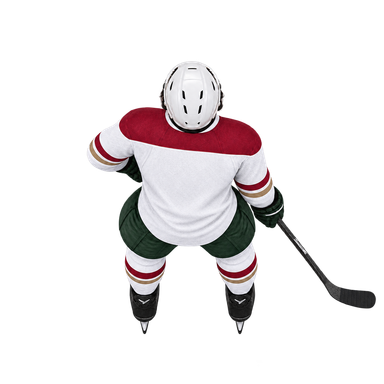
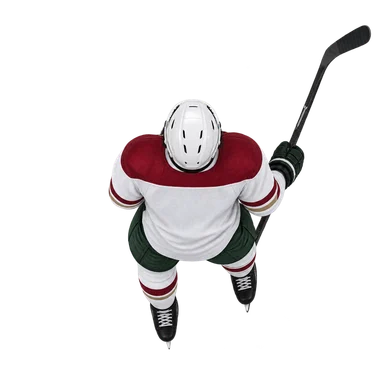
udate

Changed region(s): [[0.2188, 0.0625, 0.9688, 0.9062], [0.8125, 0.6875, 1.0, 0.8125]]

diff --git a/app/leaderboard/page.tsx b/app/leaderboard/page.tsx
@@ -6,19 +6,20 @@ import {Brand} from '@/components/Brand';
 import {api} from '@/lib/client';
 import {formatTime} from '@/lib/game';
 import type {Board} from '@/lib/types';
-export default function Leaderboard(){const [board,setBoard]=useState<Board|null>(null),[qr,setQr]=useState(''),[url,setUrl]=useState(''),[offline,setOffline]=useState(false),[now,setNow]=useState(Date.now()),[offset,setOffset]=useState(0),[locked,setLocked]=useState(false),[password,setPassword]=useState(''),[loginError,setLoginError]=useState(''),[updated,setUpdated]=useState(false);const lastSignature=useRef<string|null>(null);const toastTimer=useRef<ReturnType<typeof setTimeout>|null>(null);
+export default function Leaderboard(){const [board,setBoard]=useState<Board|null>(null),[qr,setQr]=useState(''),[url,setUrl]=useState(''),[offline,setOffline]=useState(false),[now,setNow]=useState(Date.now()),[offset,setOffset]=useState(0),[locked,setLocked]=useState(false),[password,setPassword]=useState(''),[loginError,setLoginError]=useState(''),[updated,setUpdated]=useState(false),[view,setView]=useState<'leaderboard'|'rules'|'info'>(()=>{if(typeof window==='undefined')return 'leaderboard';const v=new URLSearchParams(location.search).get('view');return v==='rules'||v==='info'?v:'leaderboard'});const lastSignature=useRef<string|null>(null);const toastTimer=useRef<ReturnType<typeof setTimeout>|null>(null);
  useEffect(()=>{let gone=false;const target=location.origin;setUrl(target.replace(/^https?:\/\//,''));QRCode.toDataURL(target,{width:500,margin:4,errorCorrectionLevel:'M',color:{dark:'#102f21',light:'#ffffff'}}).then(setQr);
   const update=async()=>{try{const b=await api<Board>('screen-board');if(!gone){const sig=JSON.stringify([b.round?.id,b.round?.status,b.entries]);if(lastSignature.current!==null&&sig!==lastSignature.current){setUpdated(true);if(toastTimer.current)clearTimeout(toastTimer.current);toastTimer.current=setTimeout(()=>setUpdated(false),1600);}lastSignature.current=sig;setBoard(b);setLocked(false);setOffline(false);setOffset(new Date(b.serverTime).getTime()-Date.now());}}catch(e){if(!gone){const message=(e as Error).message;if(message.includes('adgangskode'))setLocked(true);else {setOffline(true);setLoginError(message);}}}};update();const poll=setInterval(update,2500),clock=setInterval(()=>setNow(Date.now()),1000);return()=>{gone=true;clearInterval(poll);clearInterval(clock);if(toastTimer.current)clearTimeout(toastTimer.current);};},[]);
  if(locked)return <div className="screen-lock"><Brand/><form onSubmit={async e=>{e.preventDefault();setLoginError('');try{await api('leaderboard/login',{password});setPassword('');setLocked(false);}catch(err){setLoginError((err as Error).message);}}}><LockKeyhole size={38}/><p className="eyebrow">STORSKÆRM / PRIVAT VISNING</p><h1>INDTAST KODEN</h1><p>Leaderboardet er kun til visning på arenaens storskærm.</p><input type="password" value={password} onChange={e=>setPassword(e.target.value)} autoComplete="current-password" placeholder="Adgangskode"/><button className="primary">Åbn leaderboard</button>{loginError&&<div className="notice">{loginError}</div>}</form></div>;
  const round=board?.round;const remaining=round?Math.max(0,Math.ceil((new Date(round.ends_at).getTime()-now-offset)/1000)):0;const final=round?.status==='final';const closing=!!round&&(!remaining||round.status==='closing')&&!final;
+ const lastTen=!!round&&!final&&!closing&&remaining<=10;
  const label=final?'KAMPENS VINDERE':closing?'SIDSTE FORSØG AFSLUTTES':round?'LIVE LEADERBOARD':'KLAR TIL KAMPENS PAUSE';
- return <div className="arena-page"><header><Brand/><div className="arena-status">{offline?<><WifiOff size={17}/> FORBINDELSE AFBRUDT</>:<><span className="live-dot"/>{label}</>}<button className="icon-button" aria-label="Vis i fuld skærm" onClick={()=>document.fullscreenElement?document.exitFullscreen():document.documentElement.requestFullscreen().catch(()=>{})}><Maximize size={19}/></button></div></header>{updated&&<div className="board-toast" role="status">LEADERBOARD OPDATERET</div>}
- <main className="arena-grid"><section className="ranking"><div className="ranking-title"><div><p className="eyebrow">ODENSE BULLDOGS / PAUSESPILLET</p><h1>{final?'DE HOLDT':'HVEM HOLDER'}<br/><em>PUCKEN I LIVE?</em></h1></div><Trophy className="outline-trophy" size={68}/></div>
+ return <div className={`arena-page screen-${view}`}><header><Brand/><div className="arena-status">{offline?<><WifiOff size={17}/> FORBINDELSE AFBRUDT</>:<><span className="live-dot"/>{label}</>}<button className="icon-button" aria-label="Vis i fuld skærm" onClick={()=>document.fullscreenElement?document.exitFullscreen():document.documentElement.requestFullscreen().catch(()=>{})}><Maximize size={19}/></button></div></header>{updated&&<div className="board-toast" role="status">LEADERBOARD OPDATERET</div>}{lastTen&&<div className="final-countdown" role="status"><span>SIDSTE SEKUNDER</span><strong>{remaining}</strong></div>}
+ {view!=='leaderboard'?<main className="arena-grid alternate-screen"><section className="alternate-copy"><p className="eyebrow">ODENSE BULLDOGS / PAUSESPILLET</p><h1>{view==='rules'?'SÅDAN SPILLER DU':'KAMPENS INFO'}</h1>{view==='rules'?<><p>Scan QR-koden og vælg et kaldenavn.</p><p>Tryk på en hvid Bulldogs-spiller foran dig for at aflevere.</p><p>Undgå de mørke modspillere og aflever, før du bliver indhentet.</p><p>Du må gerne spille til banden, når den lyser orange.</p></>:<><p>Bedste overlevelsestid vinder.</p><p>Top 5 får præmien, som står på storskærmen.</p><p>Vis dit digitale præmiebevis til personalet efter finalen.</p></>}</section><aside className="join-panel"><h2>SCAN &<br/>SPIL MED.</h2><div className="qr-card">{qr&&<img src={qr} alt="Scan QR-koden for at åbne spillet"/>}</div><p className="scan-url">{url}</p></aside></main>:<main className="arena-grid"><section className="ranking"><div className="ranking-title"><div><p className="eyebrow">ODENSE BULLDOGS / PAUSESPILLET</p><h1>{final?'DE HOLDT':'HVEM HOLDER'}<br/><em>PUCKEN I LIVE?</em></h1></div><Trophy className="outline-trophy" size={68}/></div>
  <div className="ranking-label"><span>PLACERING / SPILLER</span><span>OVERLEVELSE</span></div>
  <div className="top-five">{Array.from({length:5},(_,i)=>{const e=board?.entries[i];return <div className={`rank-row ${i===0?'first':''} ${e?'':'empty'}`} key={i}><span className="rank-number">{String(i+1).padStart(2,'0')}</span><div className="rank-name">{e?.nickname|| (i===0?'Din plads venter':'—')}{i===0&&e&&<small>{final?'KAMPENS VINDER':'TIDEN AT SLÅ'}</small>}</div><strong>{e?formatTime(e.score_ms):'—'}<small> SEK</small></strong>{i===0&&<Trophy size={22}/>}</div>;})}</div>
  {!final&&<div className="next-five">{Array.from({length:5},(_,i)=>{const e=board?.entries[i+5];return <div key={i}><span>{String(i+6).padStart(2,'0')}</span><p>{e?.nickname||'—'}<strong>{e?`${formatTime(e.score_ms)} sek.`:'Plads til dig'}</strong></p></div>;})}</div>}
  <div className="ranking-foot"><span><strong>{(board?.participants||0).toLocaleString('da-DK')}</strong> DELTAGERE MED RESULTAT</span><span>{offline?'Viser senest hentede resultater':'BEDSTE FORSØG TÆLLER'}</span></div>
- </section><aside className="join-panel"><div className="join-top"><span>{final?'TAK FOR KAMPEN':closing?'SNART FINDER VI VINDERNE':'DIN TELEFON. DIN IS.'}</span><ArrowUpRight size={30}/></div><h2>{final?'SE DIT':'SCAN &'}<br/>{final?'PRÆMIEBEVIS':'SPIL MED.'}</h2><div className="qr-card">{qr?<img src={qr} alt="Scan QR-koden for at åbne spillet"/>:<div className="qr-loading">Henter QR-kode…</div>}</div><p className="scan-url">{url}</p><p className="scan-help">{final?'Åbn spillet på den telefon, du spillede med. Vis dit præmiebevis til personalet.':'Scan koden med kameraet. Tryk på dine medspillere. Overlev længst muligt.'}</p><div className="arena-countdown"><span>{final?'KONKURRENCEN ER AFSLUTTET':closing?'VI AFVENTER DE SIDSTE TIDER':round?'NYE FORSØG LUKKER OM':'TRÆNINGEN ER ÅBEN'}</span>{round&&!final&&!closing?<strong>{Math.floor(remaining/60).toString().padStart(2,'0')}<i>:</i>{(remaining%60).toString().padStart(2,'0')}</strong>:<strong className="countdown-word">{final?'TAK, ODENSE!':closing?'BLIV HÆNGENDE':'PRØV SPILLET'}</strong>}</div></aside></main>
- <div className="arena-bottom"><div><Trophy size={22}/><strong>{round?.prize||'TOP 5 VINDER'}</strong></div><span>ÉT HOLD. ÉN BY. <b>ODENSE.</b></span></div>
+ </section><aside className="join-panel"><div className="join-top"><span>{final?'TAK FOR KAMPEN':closing?'SNART FINDER VI VINDERNE':'DIN TELEFON. DIN IS.'}</span><ArrowUpRight size={30}/></div><h2>{final?'SE DIT':'SCAN &'}<br/>{final?'PRÆMIEBEVIS':'SPIL MED.'}</h2><div className="qr-card">{qr?<img src={qr} alt="Scan QR-koden for at åbne spillet"/>:<div className="qr-loading">Henter QR-kode…</div>}</div><p className="scan-url">{url}</p><p className="scan-help">{final?'Åbn spillet på den telefon, du spillede med. Vis dit præmiebevis til personalet.':'Scan koden med kameraet. Tryk på dine medspillere. Overlev længst muligt.'}</p><div className="arena-countdown"><span>{final?'KONKURRENCEN ER AFSLUTTET':closing?'VI AFVENTER DE SIDSTE TIDER':round?'NYE FORSØG LUKKER OM':'TRÆNINGEN ER ÅBEN'}</span>{round&&!final&&!closing?<strong>{Math.floor(remaining/60).toString().padStart(2,'0')}<i>:</i>{(remaining%60).toString().padStart(2,'0')}</strong>:<strong className="countdown-word">{final?'TAK, ODENSE!':closing?'BLIV HÆNGENDE':'PRØV SPILLET'}</strong>}</div></aside></main>}
+ <div className="arena-bottom"><div><Trophy size={22}/><strong>{round?.prize||'TOP 5 VINDER'}</strong></div><span>{final?'1. Find dit navn · 2. Åbn spillet på din telefon · 3. Vis præmiebeviset til personalet':'ÉT HOLD. ÉN BY. '}<b>{!final&&'ODENSE.'}</b></span></div>
  </div>;
 }

diff --git a/components/GameCanvas.tsx b/components/GameCanvas.tsx
@@ -1,6 +1,6 @@
 'use client';
 import {useEffect,useRef,useState} from 'react';
-import {act,advance,createGame,formatTime,HEIGHT,position,WIDTH,type Game,type Stage,type Point} from '@/lib/game';
+import {act,advance,createGame,formatTime,HEIGHT,position,WIDTH,reasons,type Game,type Stage,type Point} from '@/lib/game';
 import type {OpponentKit} from '@/lib/team';
 export type Session={id:string;seed:number;limit:number;practice:boolean;opponent?:OpponentKit};
 export default function GameCanvas({session,onEnd,onReady,opponent}:{session:Session|null;onEnd:(g:Game)=>void;onReady?:(ready:boolean)=>void;opponent?:OpponentKit}){
@@ -52,9 +52,10 @@ export default function GameCanvas({session,onEnd,onReady,opponent}:{session:Ses
       if(!f.intercepted) { const rx=f.to.x,ry=f.to.y-camera.current+490;ctx.strokeStyle=`rgba(228,131,49,${.12+.25*u})`;ctx.lineWidth=3;ctx.beginPath();ctx.arc(rx,ry,34+5*u,0,Math.PI*2);ctx.stroke(); }
       const a=f.via?(raw<.5?f.from:f.via):f.from;const b=f.via?(raw<.5?f.via:f.to):f.to;const leg=f.via?(raw<.5?raw*2:(raw-.5)*2):raw;const v=leg;const x=a.x+(b.x-a.x)*v,y=a.y+(b.y-a.y)*v-camera.current+490;ctx.strokeStyle='rgba(15,31,33,.2)';ctx.lineWidth=4;ctx.beginPath();ctx.moveTo(x-(b.x-a.x)*.08,y-(b.y-a.y)*.08);ctx.lineTo(x,y);ctx.stroke();drawPuck(x,y);}
     if(g.impact){ctx.strokeStyle='#b4232a';ctx.lineWidth=3;ctx.beginPath();ctx.ellipse(g.impact.x,g.impact.y-camera.current+490,35,35*shapeScale,0,0,Math.PI*2);ctx.stroke();ctx.fillStyle='#142323';ctx.beginPath();ctx.arc(g.impact.x+22,g.impact.y-camera.current+473,5,0,Math.PI*2);ctx.fill();}
+    if(g.dead&&session){ctx.save();ctx.fillStyle='rgba(11,36,26,.88)';ctx.fillRect(0,0,WIDTH,HEIGHT);ctx.fillStyle='#E48331';ctx.font='bold 13px Arial';ctx.textAlign='center';ctx.fillText('DIT FORSØG ER SLUT',WIDTH/2,HEIGHT/2-44);ctx.fillStyle='#fff';ctx.font='bold 29px Arial';ctx.fillText(reasons[g.dead],WIDTH/2,HEIGHT/2+4);ctx.fillStyle='#c8d8cc';ctx.font='14px Arial';ctx.fillText('Resultatet bliver gemt…',WIDTH/2,HEIGHT/2+38);ctx.restore();}
     if(g.step<2&&!g.dead){ctx.fillStyle='#18492e';ctx.font='bold 14px Arial';ctx.textAlign='center';ctx.fillText('TRYK PÅ EN HVID MEDSPILLER',200,70);ctx.font='12px Arial';ctx.fillText('DU SPILLER FOR BULLDOGS · FREMAD ↑',200,92);}
   };
-  const finish=()=>{if(!ended){ended=true;callback.current({...g,events:[...g.events]});}};
+  const finish=()=>{if(!ended){ended=true;window.setTimeout(()=>callback.current({...g,events:[...g.events]}),1100);}};
   let lastPasser:Point|null=null;
   const loop=(now:number)=>{
    if(stopped)return;

diff --git a/app/globals.css b/app/globals.css
@@ -26,3 +26,4 @@
 @keyframes qr-frame{50%{box-shadow:0 0 0 8px #e4833133,0 12px 36px #143d2120}}
 @media(prefers-reduced-motion:reduce){*,*::before,*::after{animation:none!important}}
 @media(max-width:420px){.arena-page header{height:auto;min-height:90px;flex-wrap:wrap;padding:14px 0;gap:12px}.rank-row{gap:8px;padding:10px 8px}.rank-number{width:27px;flex-shrink:0}.rank-row.first .rank-name{font-size:20px}.rank-row.first strong{font-size:36px}.ranking-foot{gap:12px}.arena-bottom>div{min-width:0}}
+.final-countdown{position:fixed;inset:0;z-index:15;display:grid;place-items:center;align-content:center;background:#0b241ad9;pointer-events:none}.final-countdown span{font-weight:700;letter-spacing:3px;color:#f7f8f2}.final-countdown strong{font-family:var(--heading);font-size:clamp(160px,28vw,420px);line-height:.85;color:var(--orange);animation:countdown-pop .9s ease both}.alternate-screen{align-items:center}.alternate-copy h1{font-family:var(--heading);font-size:clamp(64px,8vw,130px);line-height:.9;margin:20px 0 30px}.alternate-copy p{font-size:clamp(20px,2.2vw,32px);max-width:650px;margin:18px 0;color:#c9d8cc}.screen-links{display:flex;gap:12px}.screen-links a{color:#c5d7c9;text-decoration:underline}.winner-guide{width:100%;border-top:1px solid #183d232b;padding-top:16px;text-align:left}.winner-guide p{font-size:14px;margin:8px 0;color:#31523d}@keyframes countdown-pop{0%{transform:scale(1.25);opacity:.2}100%{transform:scale(1);opacity:1}}

diff --git a/components/Brand.tsx b/components/Brand.tsx
@@ -1,3 +1,4 @@
 import Link from 'next/link';
+export function ScreenLinks(){return <nav className="screen-links"><Link href="/leaderboard">Leaderboard</Link><Link href="/leaderboard?view=rules">Regler</Link><Link href="/leaderboard?view=info">Info</Link></nav>}
 export function Brand(){return <Link className="brand" href="/" aria-label="Odense Bulldogs · til spillet"><img src="/assets/bulldogs-logo.png" alt="Odense Bulldogs"/><span>ODENSE BULLDOGS<small>PAUSESPILLET</small></span></Link>;}
-export function Footer(){return <footer><span>ÉT HOLD. ÉN BY. ODENSE.</span><nav><Link href="/leaderboard">Storskærm</Link><Link href="/admin">Personale</Link></nav></footer>;}
+export function Footer(){return <footer><span>ÉT HOLD. ÉN BY. ODENSE.</span><nav><Link href="/leaderboard">Storskærm</Link><Link href="/leaderboard?view=rules">Regler</Link><Link href="/leaderboard?view=info">Info</Link><Link href="/admin">Personale</Link></nav></footer>;}
